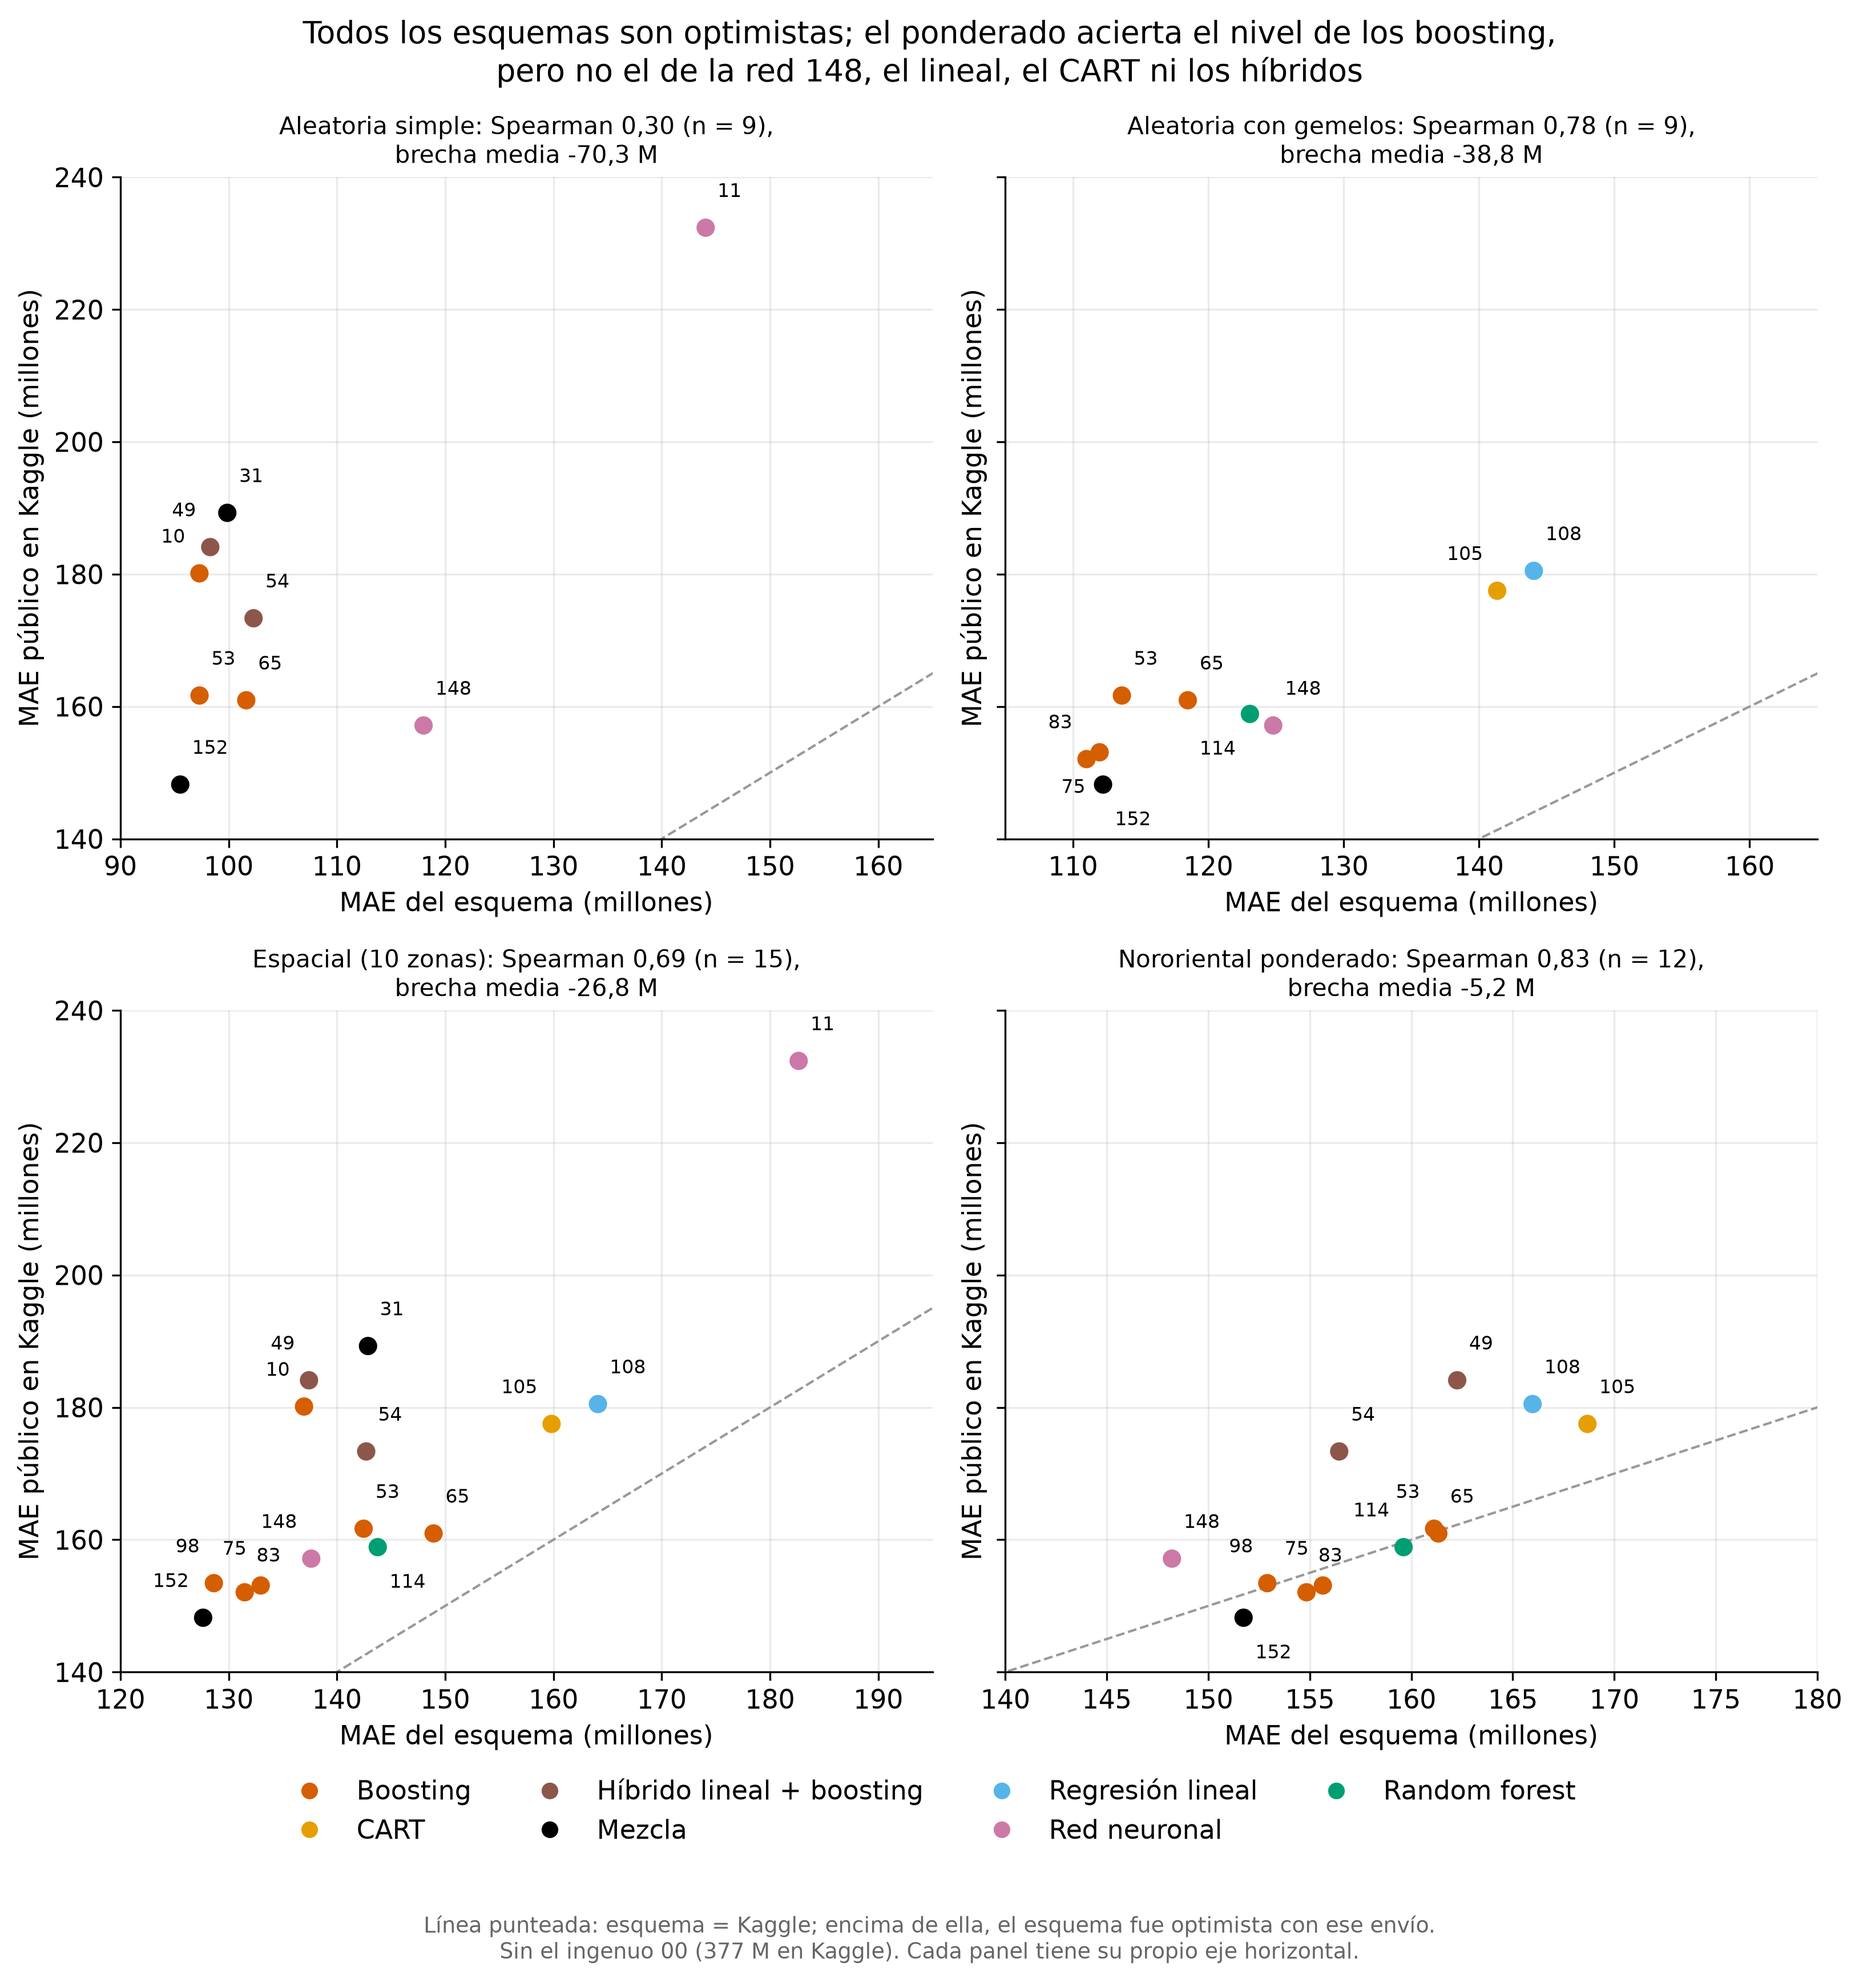
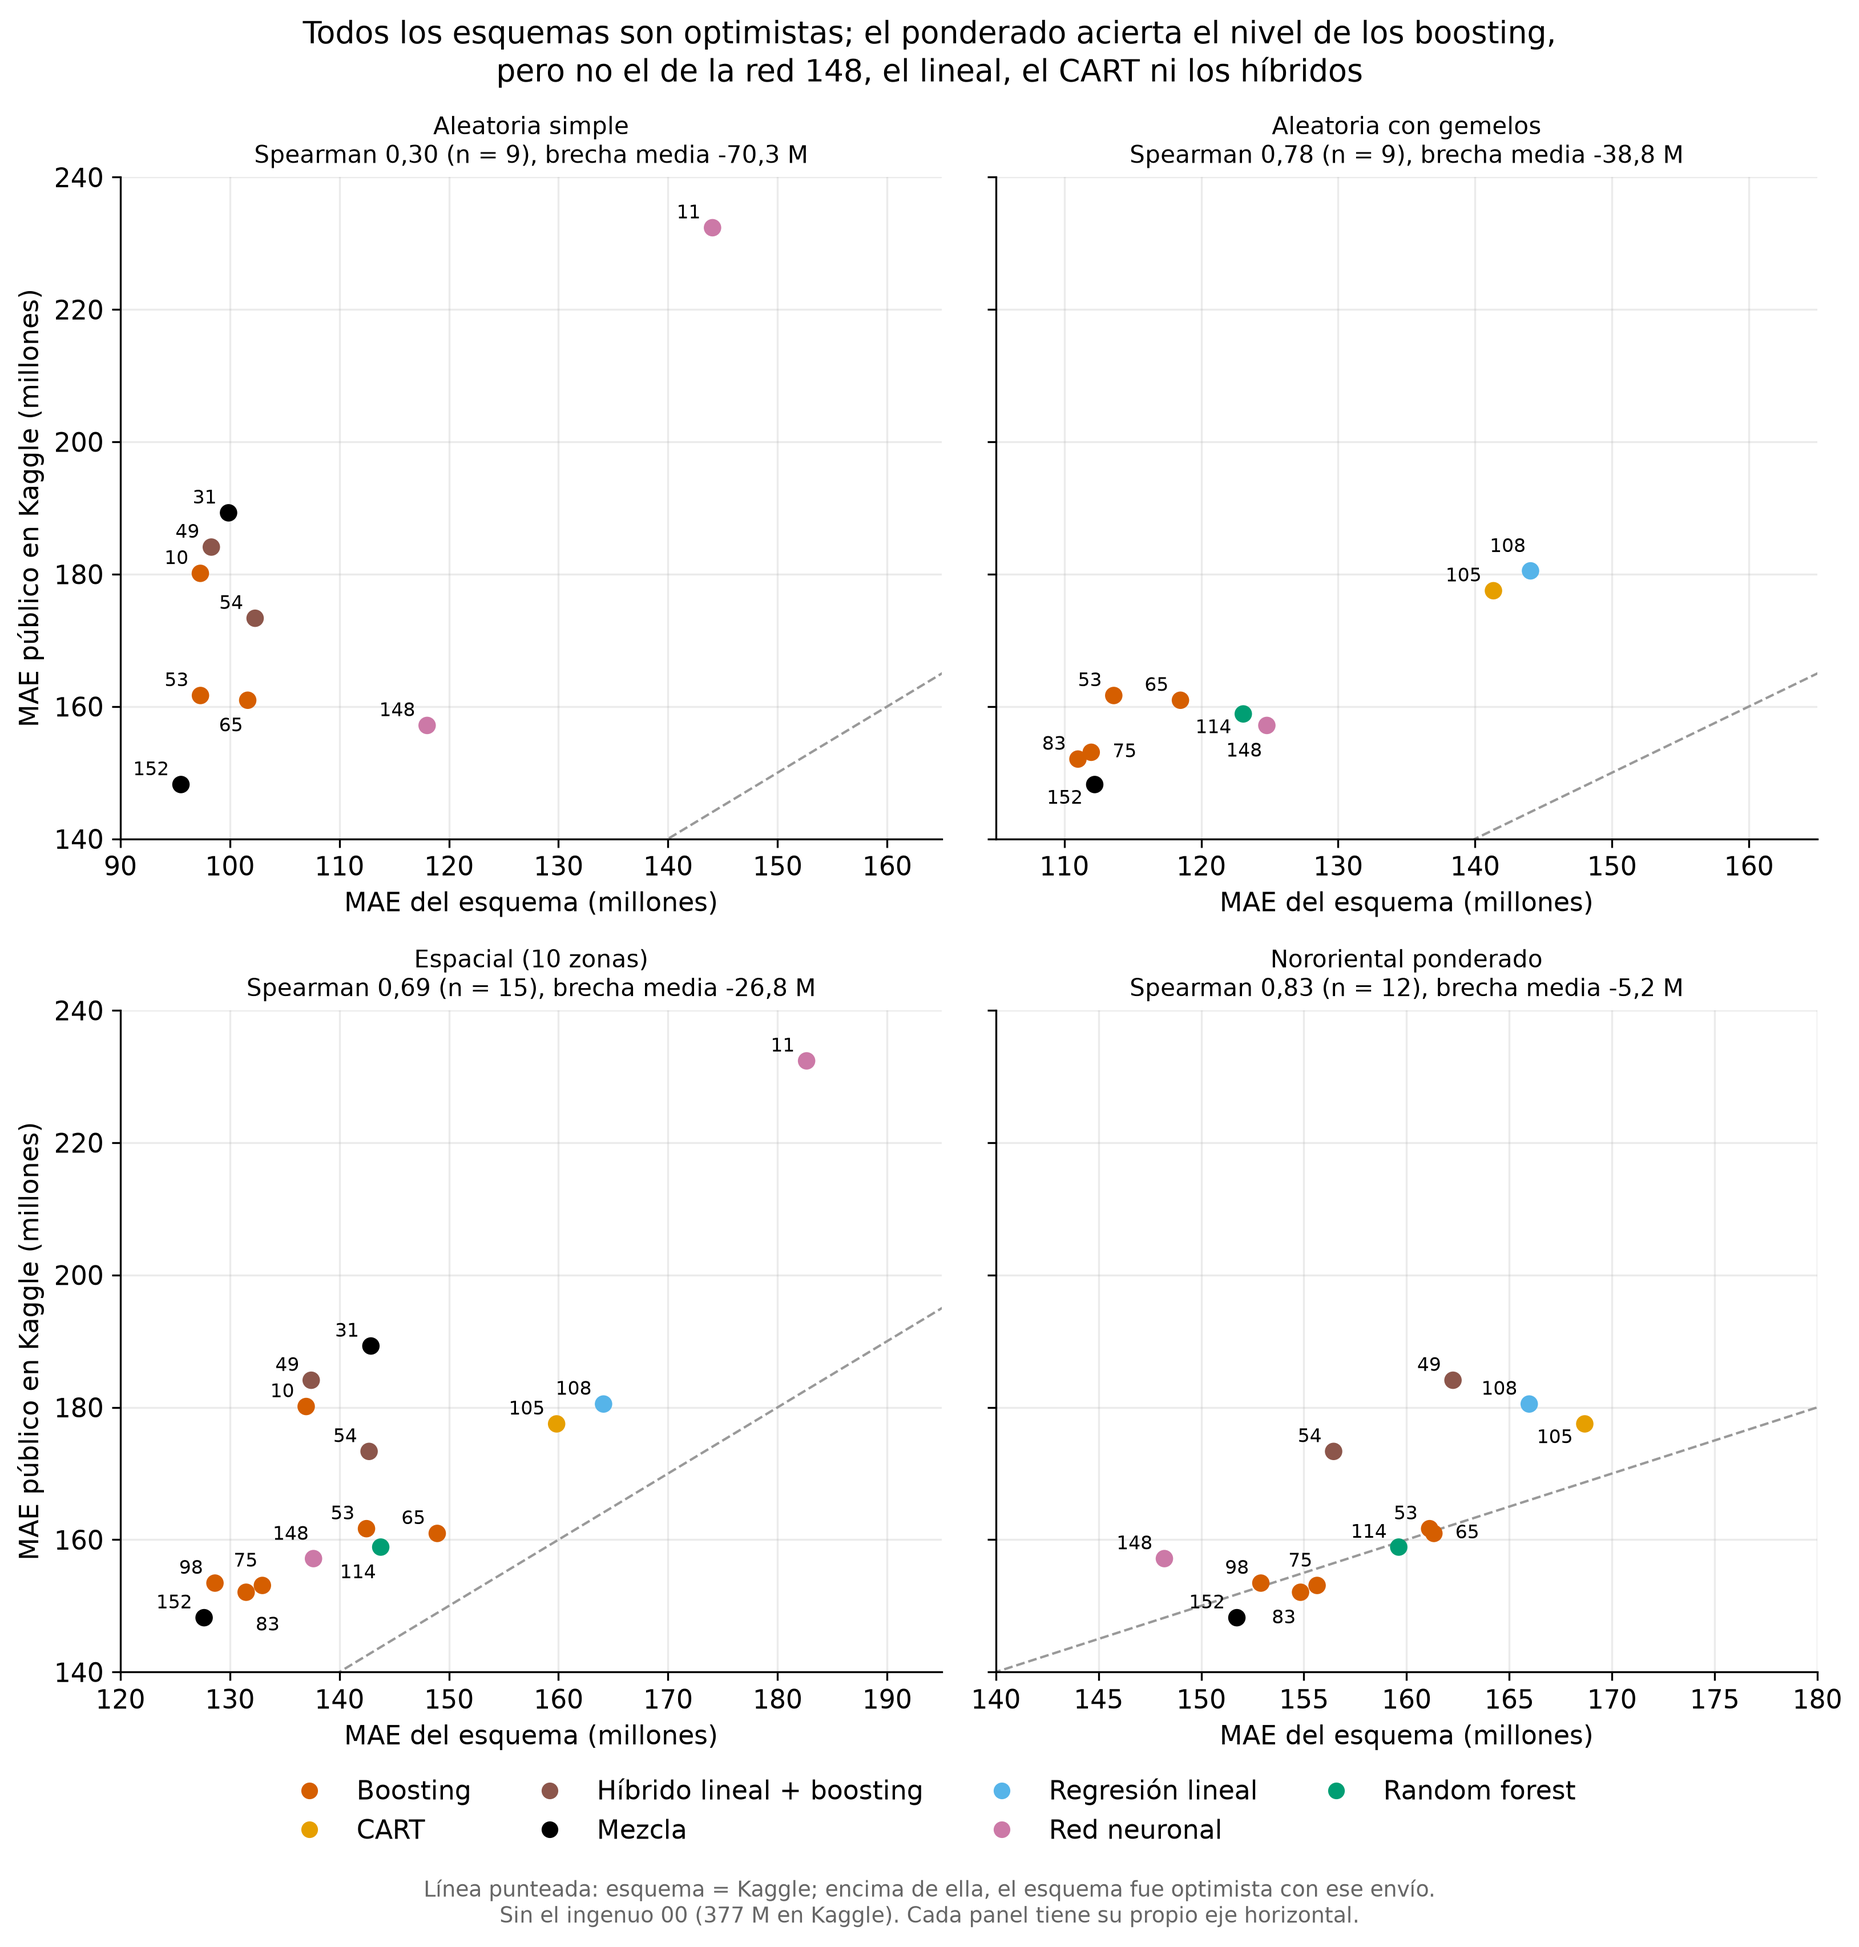
Agrega una versión horizontal de la validación contra Kaggle

diff --git a/scripts/33_validation_schemes.py b/scripts/33_validation_schemes.py
@@ -18,7 +18,8 @@ archivo enviado y completa lo que falta así:
 Salidas en views/:
   validation_schemes.csv        un envío por fila con todos los esquemas
   validation_rank_corr.csv      Spearman, pares bien ordenados y brecha por esquema
-  validation_vs_kaggle.png      cada esquema contra Kaggle
+  validation_vs_kaggle.png      cada esquema contra Kaggle (2 × 2)
+  validation_vs_kaggle_wide.png la misma figura en una fila, para diapositiva 16:9
   validation_rank_corr.png      Spearman por esquema
   validation_twins.png          aleatoria simple contra aleatoria con gemelos
   validation_level.png          la espacial premia bajar el nivel; el tablero no
@@ -265,18 +266,19 @@ def family_legend(fig, families, **kwargs):
     fig.legend(handles=handles, **kwargs)
 
 
-LABEL_OFFSETS = [(5, 3), (5, -11), (-6, 3), (-6, -11), (5, 11), (-6, 11), (5, -19),
-                 (-6, -19), (12, -4), (-14, -4)]
+LABEL_OFFSETS = [(4, 2), (4, -10), (-5, 2), (-5, -10), (-2, 6), (-2, -15), (9, -4),
+                 (-10, -4), (4, 10), (-5, 10), (4, -18), (-5, -18)]
 
 
 def place_labels(ax, xs, ys, texts, fontsize=8):
     """Etiquetas cerca de cada punto sin chocar entre sí ni con los puntos: para cada una
-    escoge, entre varias posiciones vecinas, la que menos se superpone con lo ya ubicado."""
+    escoge, entre varias posiciones vecinas, la que menos se superpone con lo ya ubicado y
+    penaliza las que quedan más cerca de otro punto que del propio (etiqueta ambigua)."""
     ax.figure.canvas.draw()
     points = ax.transData.transform(np.column_stack([xs, ys]))
     scale = ax.figure.dpi / 72
-    placed = [(x - 9, y - 9, x + 9, y + 9) for x, y in points]
-    for (x, y), (xd, yd), text in zip(points, zip(xs, ys), texts):
+    placed = [(x - 6, y - 6, x + 6, y + 6) for x, y in points]
+    for k, ((x, y), (xd, yd), text) in enumerate(zip(points, zip(xs, ys), texts)):
         width, height = 0.62 * fontsize * len(text) * scale, fontsize * scale
         best, best_cost = None, np.inf
         for dx, dy in LABEL_OFFSETS:
@@ -285,6 +287,10 @@ def place_labels(ax, xs, ys, texts, fontsize=8):
             box = (x0, y0, x0 + width, y0 + height)
             cost = sum(max(0, min(box[2], b[2]) - max(box[0], b[0]))
                        * max(0, min(box[3], b[3]) - max(box[1], b[1])) for b in placed)
+            center = np.array([(box[0] + box[2]) / 2, (box[1] + box[3]) / 2])
+            distance = np.hypot(*(points - center).T)
+            if np.delete(distance, k).min() < distance[k]:
+                cost += 400
             if cost < best_cost:
                 best, best_cost = (dx, dy, box), cost
         dx, dy, box = best
@@ -293,38 +299,69 @@ def place_labels(ax, xs, ys, texts, fontsize=8):
                     fontsize=fontsize, ha="right" if dx < 0 else "left", va="bottom")
 
 
-def plot_vs_kaggle(table, quality):
-    """Un panel por esquema: MAE del esquema contra el puntaje público (sin el ingenuo)."""
+def kaggle_points(table):
+    """Envíos con puntaje público, sin el ingenuo (377 M en Kaggle saca de escala los ejes)."""
     data = table.dropna(subset=["kaggle"])
-    data = data[data["numero"] > 0]
-    fig, axes = plt.subplots(2, 2, figsize=(11, 10.5), sharey=True)
+    return data[data["numero"] > 0]
+
+
+def draw_scheme_panels(axes, data, quality, label_size=8, title_size=10,
+                       separator=", "):
+    """Dibuja en cada eje un esquema contra Kaggle, con la línea de 45° y el número del envío."""
     stats = quality[quality["conjunto"] == "sin el ingenuo"].set_index("columna")
-    for ax, (column, label) in zip(axes.flat, SCHEMES.items()):
+    for ax, (column, label) in zip(axes, SCHEMES.items()):
         points = data.dropna(subset=[column])
         low = 5 * np.floor(points[column].min() / 5) - 5
         high = max(5 * np.ceil(points[column].max() / 5) + 10, 165)
         ax.plot([80, 240], [80, 240], color="0.6", lw=1, ls="--")
-        ax.scatter(points[column], points["kaggle"], s=45, zorder=3,
+        ax.scatter(points[column], points["kaggle"], s=40, zorder=3,
                    color=[ps.FAMILY_COLORS[f] for f in points["familia"]])
         ax.set_xlim(low, high)
         ax.set_ylim(140, 240)
         place_labels(ax, points[column].to_numpy(), points["kaggle"].to_numpy(),
-                     points["numero"].astype(str).tolist())
+                     points["numero"].astype(str).tolist(), fontsize=label_size)
         s = stats.loc[column]
-        ax.set_title(f"{label}: Spearman {ps.es_number(s['spearman'], 2)} (n = {s['n']}),\n"
-                     f"brecha media {ps.es_number(s['brecha_media'])} M", fontsize=10)
+        ax.set_title(f"{label}\nSpearman {ps.es_number(s['spearman'], 2)} (n = {s['n']})"
+                     f"{separator}brecha media {ps.es_number(s['brecha_media'])} M",
+                     fontsize=title_size)
         ax.set_xlabel("MAE del esquema (millones)")
-        ax.set_ylabel("MAE público en Kaggle (millones)")
+    axes[0].set_ylabel("MAE público en Kaggle (millones)")
+
+
+NOTE_VS_KAGGLE = ("Línea punteada: esquema = Kaggle; encima de ella, el esquema fue optimista "
+                  "con ese envío. Sin el ingenuo 00 (377 M en Kaggle). Cada panel tiene su "
+                  "propio eje horizontal.")
+
+
+def plot_vs_kaggle(table, quality):
+    """Un panel por esquema (2 × 2): MAE del esquema contra el puntaje público."""
+    data = kaggle_points(table)
+    fig, axes = plt.subplots(2, 2, figsize=(11, 10.5), sharey=True)
+    draw_scheme_panels(axes.flat, data, quality)
+    axes[1, 0].set_ylabel("MAE público en Kaggle (millones)")
     fig.suptitle("Todos los esquemas son optimistas; el ponderado acierta el nivel de los "
                  "boosting,\npero no el de la red 148, el lineal, el CART ni los híbridos",
                  fontsize=13)
     family_legend(fig, sorted(data["familia"].unique()), loc="lower center", ncol=4,
                   bbox_to_anchor=(0.5, -0.05))
-    fig.text(0.5, -0.1, "Línea punteada: esquema = Kaggle; encima de ella, el esquema fue "
-             "optimista con ese envío.\nSin el ingenuo 00 (377 M en Kaggle). Cada panel tiene "
-             "su propio eje horizontal.", ha="center", fontsize=9, color="0.4")
+    fig.text(0.5, -0.08, NOTE_VS_KAGGLE.replace(" Sin", "\nSin"), ha="center", fontsize=9,
+             color="0.4")
     fig.tight_layout()
     return ps.save(fig, "validation_vs_kaggle.png")
+
+
+def plot_vs_kaggle_wide(table, quality):
+    """La misma figura en una fila, para una diapositiva 16:9 (sin título general)."""
+    data = kaggle_points(table)
+    fig, axes = plt.subplots(1, 4, figsize=(14, 4.6), sharey=True)
+    draw_scheme_panels(axes, data, quality, label_size=8, title_size=9.5, separator="\n")
+    families = sorted(data["familia"].unique())
+    family_legend(fig, families, loc="lower center", ncol=len(families),
+                  bbox_to_anchor=(0.5, -0.07), fontsize=9.5, handletextpad=0.2,
+                  columnspacing=1.2)
+    fig.text(0.5, -0.12, NOTE_VS_KAGGLE, ha="center", fontsize=8.5, color="0.4")
+    fig.tight_layout(w_pad=1.5)
+    return ps.save(fig, "validation_vs_kaggle_wide.png")
 
 
 def plot_rank_corr(quality):
@@ -463,7 +500,8 @@ def main():
     table.to_csv(VIEWS_DIR / "validation_schemes.csv", index=False)
     quality.to_csv(VIEWS_DIR / "validation_rank_corr.csv", index=False)
     results = pd.read_csv(VIEWS_DIR / "cv_results.csv")
-    figures = [plot_vs_kaggle(table, quality), plot_rank_corr(quality),
+    figures = [plot_vs_kaggle(table, quality), plot_vs_kaggle_wide(table, quality),
+               plot_rank_corr(quality),
                plot_twins(table, results), plot_level(results, table)]
     for path in figures:
         print("figura:", path.name)
